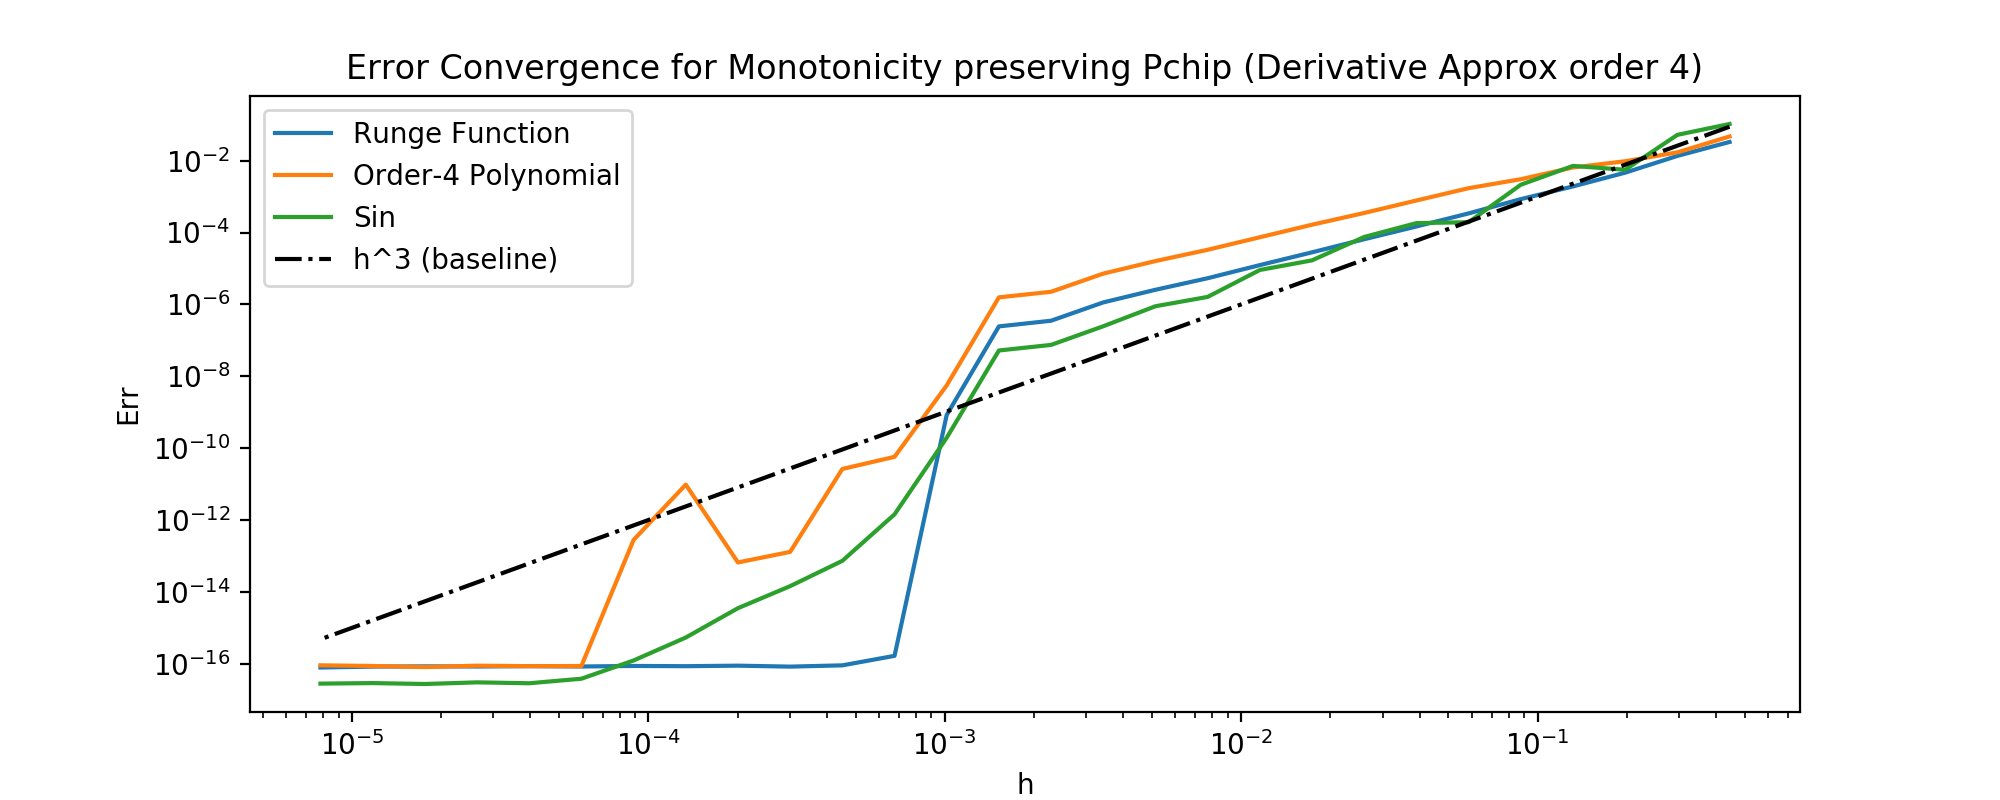
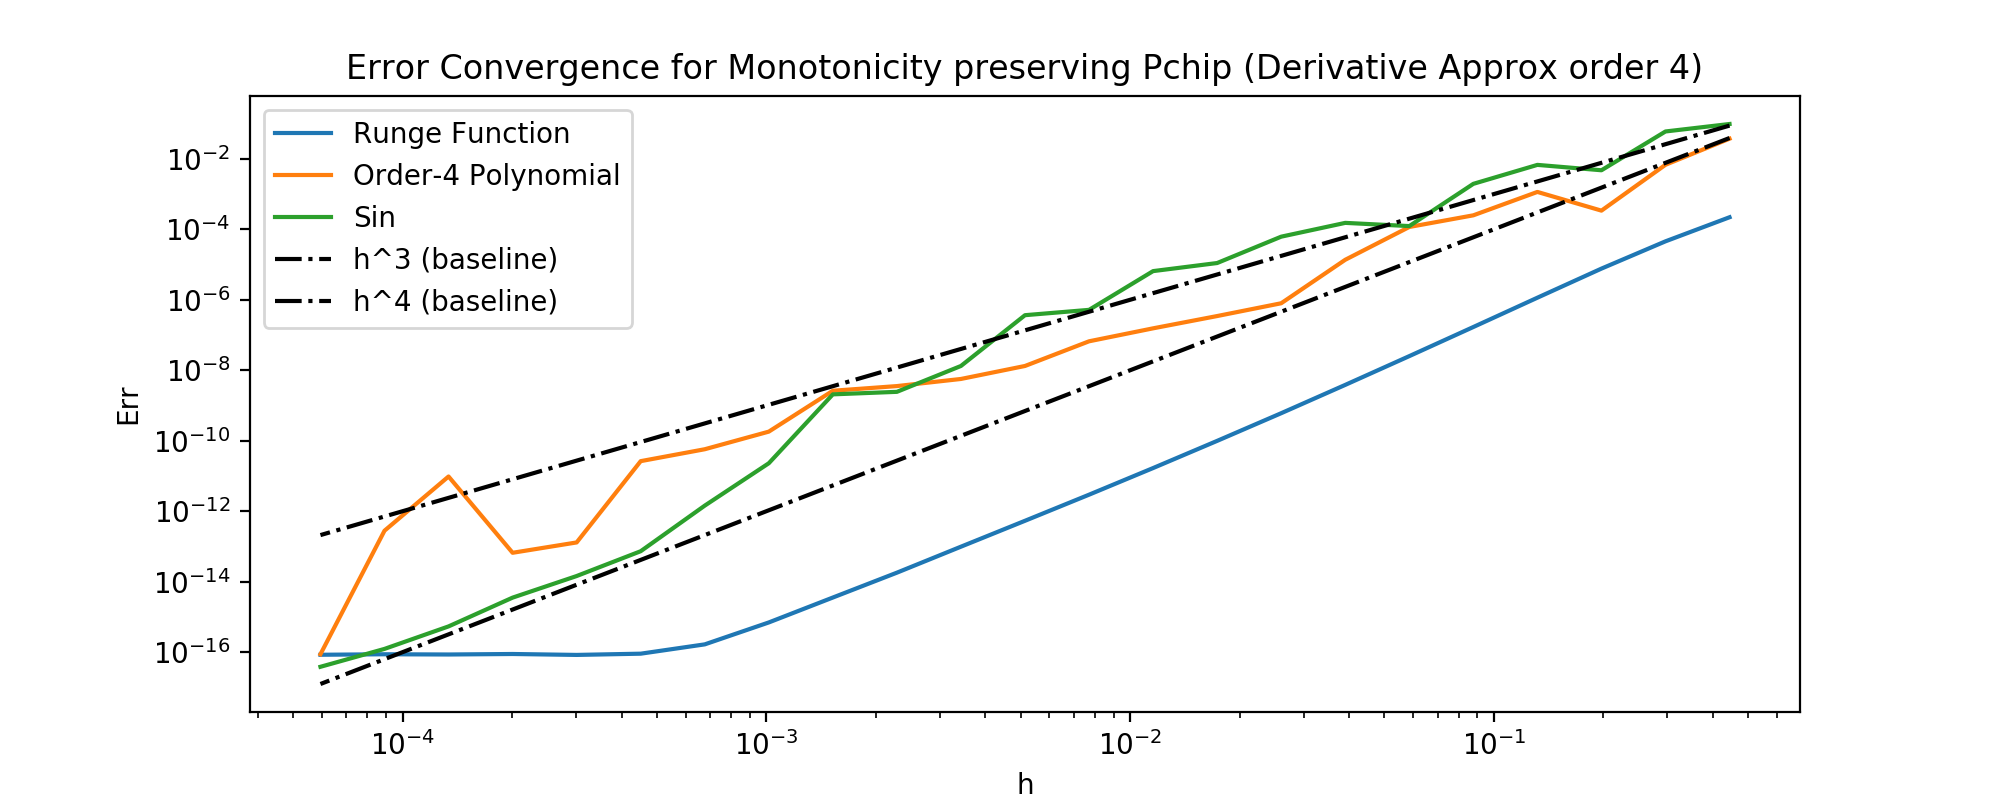
Update on demos for presentations and minor fixes

diff --git a/src/main_1d.py b/src/main_1d.py
@@ -74,7 +74,7 @@ def error_convergence(interpolation_func, start, end, h_seq, funcs, names, name,
 
 def demo_gen():
 
-    x = np.linspace(-1,1,20)
+    x = np.linspace(-1,1,16)
     y = 1 / (1 + 25 * x ** 2)
 
     tar_x = np.linspace(-1, 1, 400)
@@ -90,28 +90,30 @@ def demo_gen():
         tar_x, pchip_1d, markersize=10
     )
 
-    plt.legend(["Interpolant", "Runge Function", "PCHIP"])
+    plt.legend(["Interpolant", "Runge Function", "Global Polynomial Interpolation", "PCHIP"])
     plt.show()
 
 def visualization_plot():
 
-    x = np.arange(10)
-    y = np.array([2, 2, 2, 2, 10, 10, 10, 12, 6, 1])
+    x = np.arange(7)
+    y = np.array([2,3,8,7,-1,2,1])
     # x = np.linspace(-1,1,20)
     # y = 1 / (1 + 25 * x ** 2)
     tar_x = np.linspace(x[0], x[-1], 100)
 
-    pchip_1d = piecewise_cubic_hermite_spline.pchip_1d_generator(x, y, tar_x, derives='2')
+    pchip_1d_2rd = piecewise_cubic_hermite_spline.pchip_1d_generator(x, y, tar_x, derives='2')
+    pchip_1d_4rd = piecewise_cubic_hermite_spline.pchip_1d_generator(x, y, tar_x, derives='4')
     mc_pchip_1d = monotonicity_preserving_pchip.mc_pchip_1d_generator(x, y, tar_x, derives='2')
     cubic_1d = cubic_spline_interpolation.cubic_spline_generator(x, y, tar_x)
 
     plt.figure(figsize=(12,6))
     plt.plot(x, y, ".k",
-             tar_x, pchip_1d,
-             tar_x, mc_pchip_1d,
-             tar_x, cubic_1d)
-    
-    plt.legend(["data", "pchip", "mc_pchip", "natural cubic"])
+             tar_x, cubic_1d,
+             tar_x, pchip_1d_4rd,
+             markersize=10)
+    plt.plot(tar_x, mc_pchip_1d, lw=3, c="blue", linestyle="--")
+    # plt.legend(["data", "pchip", "mc_pchip", "natural cubic"])
+    plt.legend(["data", "natural cubic spline", "pchip 4rd", "mc pchip 4rd"])
     plt.show()
 
 
@@ -120,20 +122,20 @@ def convergence_analysis():
     h_sequence_spline = [1 / (1.5 ** i) for i in range(2, 25)]
     test_funcs_spline = [[test_sin_func, test_4rd_polynomial, test_runge_function], [baseline_4rd]]
     test_names_spline = [["Runge Function", "Order-4 Polynomial", "Sin"], ["h^4 (baseline)"]]
-    error_convergence(cubic_spline_interpolation.cubic_spline_generator, -1, 1, h_sequence_spline, test_funcs_spline, test_names_spline, "Spline", save=True)
+    # error_convergence(cubic_spline_interpolation.cubic_spline_generator, -1, 1, h_sequence_spline, test_funcs_spline, test_names_spline, "Spline", save=True)
 
-    h_sequence_pchip = [1 / (1.5 ** i) for i in range(2, 30)]
+    h_sequence_pchip = [1 / (1.5 ** i) for i in range(2, 32)]
     test_funcs_pchip = [[test_sin_func, test_4rd_polynomial, test_runge_function], [baseline_3rd]]
     test_names_pchip = [["Runge Function", "Order-4 Polynomial", "Sin"], ["h^3 (baseline)"]]
-    # error_convergence(piecewise_cubic_hermite_spline.pchip_1d_generator, -1, 1, h_sequence_pchip, test_funcs_pchip, test_names_pchip, "Pchip (Derivative Approx order 4)", derives="4", save=True)
+    error_convergence(piecewise_cubic_hermite_spline.pchip_1d_generator, -1, 1, h_sequence_pchip, test_funcs_pchip, test_names_pchip, "Pchip (Derivative Approx order 2)", derives="2", save=True)
 
     h_sequence_mc_pchip = [1 / (1.5 ** i) for i in range(2, 30)]
-    test_funcs_mc_pchip = [[test_sin_func, test_4rd_polynomial, test_runge_function], [baseline_3rd]]#, baseline_3rd]]
-    test_names_mc_pchip = [["Runge Function", "Order-4 Polynomial", "Sin"], ["h^3 (baseline)"]]#, "h^3 (baseline)"]]
-    # error_convergence(monotonicity_preserving_pchip.mc_pchip_1d_generator, -1, 1, h_sequence_mc_pchip, test_funcs_mc_pchip, test_names_mc_pchip, "Monotonicity preserving Pchip (Derivative Approx order 4)", derives="4", save=True)
+    test_funcs_mc_pchip = [[test_sin_func, test_4rd_polynomial, test_runge_function], [baseline_3rd]]#, baseline_4rd]]
+    test_names_mc_pchip = [["Runge Function", "Order-4 Polynomial", "Sin"], ["h^3 (baseline)"]]#, "h^4 (baseline)"]]
+    # error_convergence(monotonicity_preserving_pchip.mc_pchip_1d_generator, -1, 1, h_sequence_mc_pchip, test_funcs_mc_pchip, test_names_mc_pchip, "Monotonicity preserving Pchip (Derivative Approx order 2)", derives="2", save=True)
 
-#visualization_plot()
+visualization_plot()
 
-convergence_analysis()
+# convergence_analysis()
 
-#demo_gen()
+# demo_gen()

diff --git a/src/main_2d.py b/src/main_2d.py
@@ -6,6 +6,7 @@ import monotonicity_preserving_pchip
 import general_arithmetic
 import cubic_spline_interpolation
 import matplotlib.pyplot as plt
+from scipy import interpolate
 from matplotlib import cm
 from mpl_toolkits.mplot3d import Axes3D
 import numpy as np
@@ -44,7 +45,7 @@ def plot_diff_1(mat1, mat2, name1, name2, color_map):
     plt.title(name1)
     plt.colorbar()
     plt.subplot(132)
-    plt.imshow(mat1, cmap=color_map)
+    plt.imshow(mat2, cmap=color_map)
     plt.title(name2)
     plt.colorbar()
     plt.subplot(133)
@@ -102,9 +103,36 @@ def general_comparison():
     plt.savefig('test.png', dpi=100)
     plt.show()
 
+def bicubic_scipy_comparing():
 
-if __name__ == "__main__":    
-    general_comparison()
+    imx, imy = 8, 8
+    color_map = "jet"
+    scale = 8
+    rand_mat = np.random.random((imx, imy))
+
+    x = np.arange(imx)
+    y = np.arange(imy)
+    z = rand_mat
+    f = interpolate.interp2d(x, y, z, kind='cubic')
+    x_new = np.linspace(x[0], x[-1], (x[-1]-x[0]) * scale + 1)
+    y_new = np.linspace(y[0], y[-1], (y[-1]-y[0]) * scale + 1)
+    z_new = f(x_new, y_new)
+    
+    bicubic_10 = bicubic_spline.bicubic_spline_helper(rand_mat, scale)
+    cubic_2d = cubic_spline_interpolation.cubic_1d_to_2d(rand_mat, scale)
+    pchip_2d = piecewise_cubic_hermite_spline.pchip_base_helper(rand_mat, scale)
+    mc_pchip_2d = monotonicity_preserving_pchip.mc_pchip_base_helper(rand_mat, scale)
+
+
+    print(bicubic_10 - z_new)
+
+    plot_diff_1(mc_pchip_2d, pchip_2d, "my", "scipy", color_map)
+
+
+
+if __name__ == "__main__":
+    bicubic_scipy_comparing() 
+    # general_comparison()
     
 
     

diff --git a/src/general_arithmetic.py b/src/general_arithmetic.py
@@ -128,8 +128,8 @@ def fourth_order_finitedif_derivative_approx(x, y, boundary_uncentered=True):
 
     if boundary_uncentered:
         ret[0] = (-22 * y[0] + 36 * y[1] - 18 * y[2] + 4 * y[3]) / (-22 * x[0] + 36 * x[1] - 18 * x[2] + 4 * x[3])
-        ret[1] = (-2 * y[0] - 3 * y[1] + 6 * y[2] - y[3]) / (-2 * y[0] - 3 * y[1] + 6 * y[2] - y[3])
-        ret[-2] = (-2 * y[-1] - 3 * y[-2] + 6 * y[-3] - y[-4]) / (-2 * y[-1] - 3 * y[-2] + 6 * y[-3] - y[-4])
+        ret[1] = (-2 * y[0] - 3 * y[1] + 6 * y[2] - y[3]) / (-2 * x[0] - 3 * x[1] + 6 * x[2] - x[3])
+        ret[-2] = (-2 * y[-1] - 3 * y[-2] + 6 * y[-3] - y[-4]) / (-2 * x[-1] - 3 * x[-2] + 6 * x[-3] - x[-4])
         ret[-1] = (-22 * y[-1] + 36 * y[-2] - 18 * y[-3] + 4 * y[-4]) / (-22 * x[-1] + 36 * x[-2] - 18 * x[-3] + 4 * x[-4])
         ret[2:-2] = (-y[:-4] + 8 * y[1:-3] - 8 * y[3:-1] + y[4:]) / (-x[:-4] + 8 * x[1:-3] - 8 * x[3:-1] + x[4:])
     

diff --git a/src/monotonicity_preserving_pchip.py b/src/monotonicity_preserving_pchip.py
@@ -19,8 +19,8 @@ def local_monotone_mask(dydx, x, y):
     # print(dydx)
     
     ret = np.zeros_like(dydx)
-    ret[0] = dydx[0]
-    ret[-1] = dydx[-1]
+    # ret[0] = dydx[0]
+    # ret[-1] = dydx[-1]
     
     slope = np.zeros(len(ret) - 1)
     slope = (y[1:] - y[:-1]) / (x[1:] - x[:-1])
@@ -68,7 +68,7 @@ def mc_pchip_coeff_generator(x, y, sort_x=False, derives="2"):
     coeff[1] = y[1:]
     coeff[2] = dydx[:-1] * diff
     coeff[3] = dydx[1:] * diff
-    
+
     coeff = np.matmul(solve_mat, coeff)
 
     coeff[1] = coeff[1] / diff
